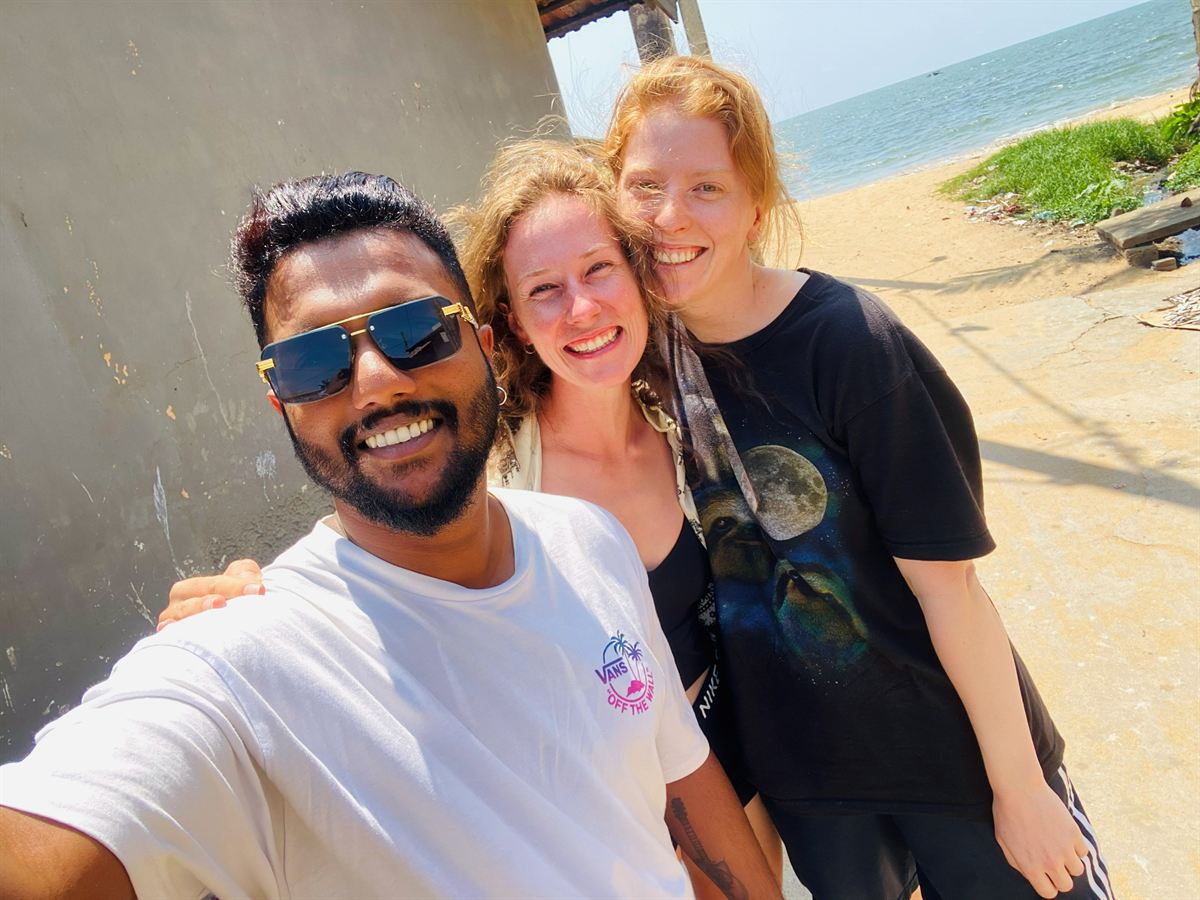
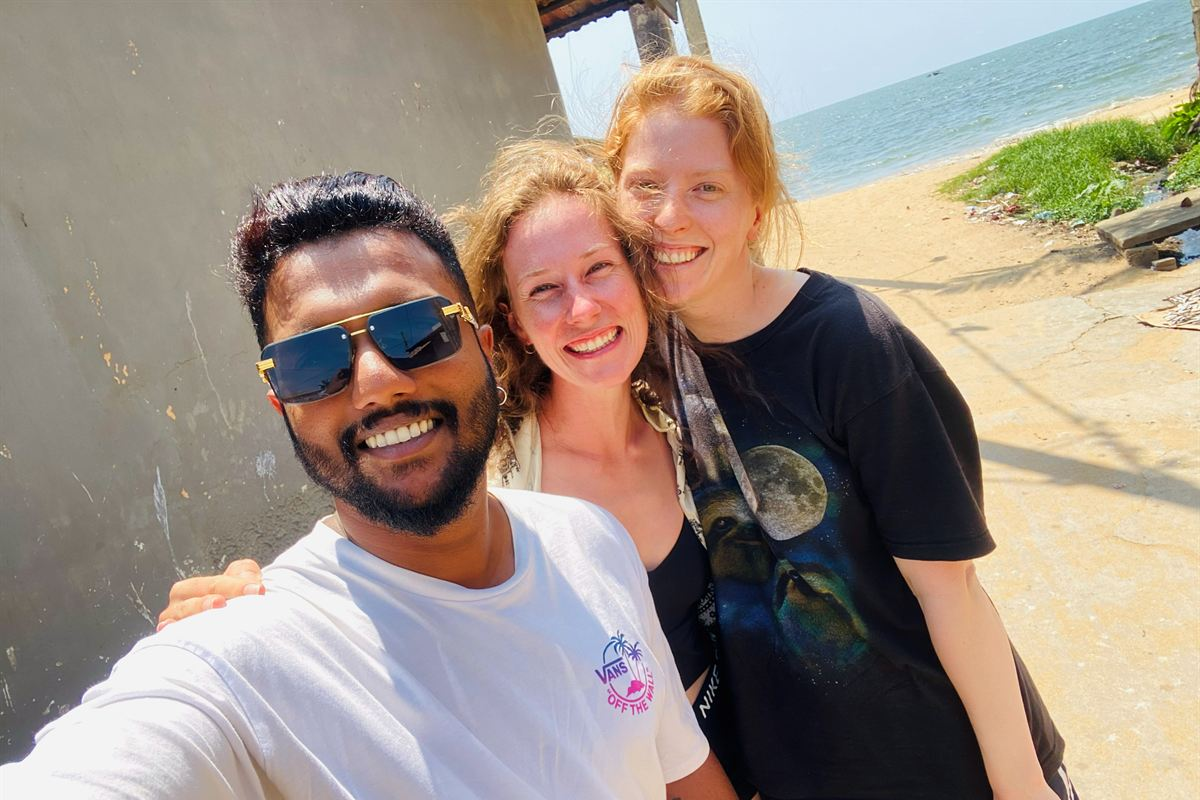
Add files via upload

diff --git a/index.html b/index.html
@@ -250,6 +250,9 @@ html:not(.revisar) .voice-g:has(> .video.pend){grid-template-columns:minmax(0,1f
 .car-ph .slot{padding:10px;font-size:.82rem}
 html:not(.revisar) .car-ph:has(> .slot){grid-template-columns:minmax(0,1fr)}
 html:not(.revisar) .car-ph:has(> .slot) .ph{aspect-ratio:4/3}
+.car-ph:has(> :nth-child(3)){grid-template-columns:minmax(0,1.125fr) minmax(0,1fr)}
+.car-ph:has(> :nth-child(3)) > :first-child{grid-row:1 / 3;aspect-ratio:auto;height:100%}
+.car-ph:has(> :nth-child(3)) > :not(:first-child){aspect-ratio:4/3}
 .specs{list-style:none;padding:0;margin:0}
 .car-note{font-family:var(--f-text);font-style:italic;font-size:1.1rem;color:var(--muted)}
 .specs li{display:flex;justify-content:space-between;gap:16px;padding-block:12px;border-bottom:1px solid var(--line)}
@@ -293,8 +296,6 @@ html:not(.revisar) .car-ph:has(> .slot) .ph{aspect-ratio:4/3}
 .legs .d{font-size:.78rem;font-weight:700;letter-spacing:.1em;text-transform:uppercase;color:var(--gold-text);padding-top:3px}
 .legs b{font-weight:600}
 .legs span.n{display:block;font-size:.92rem;color:var(--muted)}
-.trip-ph{display:grid;grid-template-columns:1fr 1fr;gap:12px}
-.trip-ph .ph{aspect-ratio:4/5}
 @media (max-width:960px){ .trip-g{grid-template-columns:1fr} }
 /* route chooser: one button per route; only the chosen route shows on the map and in the list */
 .rtabs{display:flex;flex-wrap:wrap;gap:8px;margin-bottom:clamp(20px,3vw,32px)}
@@ -304,7 +305,17 @@ html:not(.revisar) .car-ph:has(> .slot) .ph{aspect-ratio:4/3}
 .trip.off,.mapbox .route.off{display:none}
 .trip-k{font-size:.78rem;font-weight:700;letter-spacing:.14em;text-transform:uppercase;color:var(--gold-text);margin-bottom:6px}
 .trip-note{color:var(--muted);font-size:.95rem}
-.trip:not([data-route="cg"]) .legs li{grid-template-columns:30px 1fr}
+.trip .legs li{grid-template-columns:30px 1fr}
+.trip-col{display:grid;gap:22px;min-width:0}
+.places{margin-top:clamp(36px,5vw,56px);display:grid;grid-template-columns:minmax(0,1fr);gap:14px;min-width:0}
+.places h3{font-size:1.5rem}
+.places-g{display:grid;grid-auto-flow:column;grid-auto-columns:minmax(190px,1fr);gap:12px;overflow-x:auto;scroll-snap-type:x mandatory;padding-bottom:8px;-webkit-overflow-scrolling:touch}
+.places-g figure{margin:0;scroll-snap-align:start;min-width:0}
+.places-g img{width:100%;aspect-ratio:4/5;object-fit:cover;border-radius:4px;display:block}
+.places-g figcaption{margin-top:8px;font-size:.92rem;font-weight:600}
+.places-g figcaption small{display:block;font-weight:400;font-size:.8rem;color:var(--muted)}
+.places-sub{color:var(--muted);font-size:.95rem;margin-top:4px}
+@media (max-width:700px){ .places-g{grid-auto-columns:64%} }
 
 /* about */
 .who-g{display:grid;grid-template-columns:1.2fr .8fr;gap:clamp(28px,5vw,64px);align-items:center}
@@ -413,7 +424,7 @@ html.movil .crew-g{grid-template-columns:repeat(2,minmax(0,1fr))}
       </div>
     </div>
     <figure class="ph">
-      <img data-slot="hero" src="img/portada-darshi.jpg" data-alt-es="Darshi sonriendo a cámara" data-alt-en="Darshi smiling at the camera" alt="Darshi sonriendo a cámara" width="960" height="1200" fetchpriority="high">
+      <img data-slot="hero" src="img/darshi-retrato.jpg" data-alt-es="Darshi sentado en unos escalones, sonriendo" data-alt-en="Darshi sitting on some steps, smiling" alt="Darshi sentado en unos escalones, sonriendo" width="933" height="1400" fetchpriority="high">
     </figure>
   </div>
 </section>
@@ -490,19 +501,19 @@ html.movil .crew-g{grid-template-columns:repeat(2,minmax(0,1fr))}
     </div>
     <div class="travel">
       <article class="tr">
-        <figure class="ph"><img data-slot="card_route" src="img/buduruwagala.jpg" data-alt-es="Las figuras de Buda talladas en la roca de Buduruwagala" data-alt-en="The Buddha figures carved into the rock at Buduruwagala" alt="Las figuras de Buda talladas en la roca de Buduruwagala" loading="lazy"></figure>
+        <figure class="ph"><img data-slot="card_route" src="img/buduruwagala.jpg" data-alt-es="Darshi y Gerard mirando la figura de Buda tallada en la roca de Buduruwagala" data-alt-en="Darshi and Gerard looking at the Buddha figure carved into the rock at Buduruwagala" alt="Darshi y Gerard mirando la figura de Buda tallada en la roca de Buduruwagala" loading="lazy"></figure>
         <h3><span class="t-es">La ruta, la preparamos juntos</span><span class="t-en">We plan the route together</span></h3>
         <p class="t-es">Me cuentas tus fechas, tu idea de ruta o los lugares que te interesan, y la ajustamos juntos. En Sri Lanka las distancias engañan: en la montaña, pocos kilómetros pueden ser horas de carretera. Por eso preparamos el recorrido con tiempos reales y vemos dónde te apetece parar por el camino.</p>
         <p class="t-en">Tell me your dates, your route idea or the places you're interested in, and we'll fine-tune it together. In Sri Lanka distances are deceiving: in the hills, a few kilometres can mean hours on the road. So we plan the route with real driving times and see where you'd like to stop along the way.</p>
       </article>
       <article class="tr">
-        <figure class="ph"><img data-slot="card_tips" src="img/recomendaciones.jpg" style="object-position:50% 62%" data-alt-es="Darshi señalando una cascada a un viajero" data-alt-en="Darshi pointing out a waterfall to a traveller" alt="Darshi señalando una cascada a un viajero" loading="lazy"></figure>
+        <figure class="ph"><img data-slot="card_tips" src="img/comida-tipica.jpg" data-alt-es="Arroz con curry servido en hoja de plátano" data-alt-en="Rice and curry served on a banana leaf" alt="Arroz con curry servido en hoja de plátano" loading="lazy"></figure>
         <h3><span class="t-es">Recomendaciones por el camino</span><span class="t-en">Recommendations along the way</span></h3>
         <p class="t-es">Te propongo sitios para visitar y comer, también menos turísticos, y te ayudo a organizar safaris y a conseguir entradas y billetes. Las entradas y actividades se pagan aparte.</p>
         <p class="t-en">I suggest places to visit and eat, including less touristy ones, and help you arrange safaris and get entrance and train tickets. Tickets and activities are paid separately.</p>
       </article>
       <article class="tr">
-        <div class="slot" data-slot="card_train"><span class="t-es">Foto pendiente</span><span class="t-en">Photo to come</span><small><span class="t-es">Las vistas desde el tren a Ella, o vosotros asomados a la ventanilla</span><span class="t-en">The views from the Ella train, or travellers at the window</span></small></div>
+        <figure class="ph"><img data-slot="card_train" src="img/tren-nine-arches.jpg" data-alt-es="El tren a Ella cruzando el puente Nine Arches" data-alt-en="The train to Ella crossing the Nine Arches Bridge" alt="El tren a Ella cruzando el puente Nine Arches" loading="lazy"></figure>
         <h3><span class="t-es">El tren a Ella, sin cargar con las maletas</span><span class="t-en">The train to Ella, without carrying your luggage</span></h3>
         <p class="t-es">El tramo de montaña hasta Ella es uno de los trayectos en tren más bonitos del mundo: plantaciones de té, cascadas y valles desde la ventanilla. Te ayudo a conseguir los billetes, que en temporada alta se agotan pronto. Mientras tú disfrutas del paisaje, yo llevo las maletas en el coche y te recojo en la estación. Los billetes se pagan aparte.</p>
         <p class="t-en">The mountain stretch to Ella is one of the most beautiful train rides in the world: tea plantations, waterfalls and valleys from the window. I help you get tickets, which sell out early in high season. While you enjoy the views, I take your luggage in the car and pick you up at the station. Train tickets are paid separately.</p>
@@ -558,8 +569,9 @@ html.movil .crew-g{grid-template-columns:repeat(2,minmax(0,1fr))}
     <!-- The car: only what stays true if he changes car (no model). -->
     <div class="car" id="coche">
       <div class="car-ph">
-        <figure class="ph"><img data-slot="car_outside" src="img/coche-darshi.jpg" style="object-position:32% 50%" data-alt-es="Darshi apoyado en su coche negro, con campos y montañas detrás" data-alt-en="Darshi leaning on his black car, with fields and hills behind" alt="Darshi apoyado en su coche negro, con campos y montañas detrás" loading="lazy"></figure>
+        <figure class="ph"><img data-slot="car_outside" src="img/coche-arrozal.jpg" data-alt-es="Darshi apoyado en su coche negro, junto a unos arrozales" data-alt-en="Darshi leaning on his black car, next to some rice fields" alt="Darshi apoyado en su coche negro, junto a unos arrozales" loading="lazy"></figure>
         <figure class="ph"><img data-slot="car_inside" src="img/coche-interior.jpg" data-alt-es="El interior del coche visto desde los asientos de atrás, con Darshi al volante" data-alt-en="Inside the car from the back seats, with Darshi driving" alt="El interior del coche visto desde los asientos de atrás, con Darshi al volante" loading="lazy"></figure>
+        <figure class="ph"><img data-slot="car_3" src="img/coche-detras.jpg" data-alt-es="La parte de atrás del coche, con la frase Come as a guest, leave as a friend" data-alt-en="The back of the car, with the words Come as a guest, leave as a friend" alt="La parte de atrás del coche, con la frase Come as a guest, leave as a friend" loading="lazy"></figure>
       </div>
       <div style="display:grid;gap:18px;min-width:0">
         <p class="eyebrow"><span class="t-es">El coche</span><span class="t-en">The car</span></p>
@@ -608,7 +620,7 @@ html.movil .crew-g{grid-template-columns:repeat(2,minmax(0,1fr))}
   </div>
 </section>
 
-<!-- 6. ROUTES: Darshi's routes (data/routes.json, drawn on the map by the script) and Claudia & Gerard's real trip (written below). A button switches between them. -->
+<!-- 6. ROUTES: ideas for a route (data/routes.json), drawn on the map by the script. One button per route switches between them. The two photos below are shared by all routes. -->
 <section id="viaje-real" style="padding-top:0">
   <div class="wrap">
     <div class="sec-head">
@@ -623,49 +635,17 @@ html.movil .crew-g{grid-template-columns:repeat(2,minmax(0,1fr))}
           <img src="img/mapa-relieve.jpg" data-alt-es="Mapa de relieve de Sri Lanka" data-alt-en="Relief map of Sri Lanka" alt="Mapa de relieve de Sri Lanka" width="960" height="1470" loading="lazy">
           <!-- equirectangular: x=(lon-79.2)/3.1*1200, y=(10.2-lat)/4.7*1838 -->
           <svg id="route-map" viewBox="0 0 1200 1838" role="img" aria-label="Mapa de la ruta">
-            <g class="route" data-route="cg">
-            <polyline points="265,1181 604,877 556,1138 613,1263 715,1300 654,1457 852,1498 487,1663" fill="none" stroke="#16201A" stroke-width="16" stroke-linejoin="round" stroke-linecap="round" opacity=".55"/>
-            <polyline points="265,1181 604,877 556,1138 613,1263 715,1300 654,1457 852,1498 487,1663" fill="none" stroke="#E2B348" stroke-width="8" stroke-linejoin="round" stroke-linecap="round"/>
-            <g fill="#E2B348" stroke="#16201A" stroke-width="5">
-              <circle cx="265" cy="1181" r="16"/><circle cx="604" cy="877" r="16"/><circle cx="556" cy="1138" r="16"/>
-              <circle cx="613" cy="1263" r="16"/><circle cx="715" cy="1300" r="16"/><circle cx="654" cy="1457" r="16"/><circle cx="852" cy="1498" r="16"/>
-              <circle cx="487" cy="1663" r="16"/>
-            </g>
-            <g class="lbl">
-              <text x="240" y="1172" text-anchor="end"><tspan class="t-es">Aeropuerto</tspan><tspan class="t-en">Airport</tspan></text>
-              <text x="632" y="873">Sigiriya</text>
-              <text x="532" y="1135" text-anchor="end">Kandy</text>
-              <text x="590" y="1275" text-anchor="end">Nuwara Eliya</text>
-              <text x="740" y="1300">Ella</text>
-              <text x="630" y="1470" text-anchor="end">Udawalawe</text>
-              <text x="878" y="1512">Yala</text>
-              <text x="487" y="1732" text-anchor="middle">Mirissa</text>
-            </g>
-            </g>
           </svg>
         </div>
         <p class="credit"><span class="t-es">Mapa base:</span><span class="t-en">Base map:</span> Uwe Dedering, <a href="https://commons.wikimedia.org/wiki/File:Sri_Lanka_relief_location_map.jpg" target="_blank" rel="noopener">Wikimedia Commons</a>, CC BY-SA 3.0</p>
       </div>
-      <div class="trip" data-route="cg">
-        <div class="trip-head">
-          <div><p class="trip-k"><span class="t-es">Un viaje real</span><span class="t-en">A real trip</span></p><h3>Claudia &amp; Gerard</h3><p>Barcelona · <span class="t-es">noviembre de 2026 · pareja</span><span class="t-en">November 2026 · couple</span></p></div>
-          <p class="days">9<small><span class="t-es">días con conductor</span><span class="t-en">days with a driver</span></small></p>
-        </div>
-        <ol class="legs">
-          <li><span class="d"><span class="t-es">Día 1</span><span class="t-en">Day 1</span></span><span><b>Sigiriya</b><span class="n"><span class="t-es">Desde el hotel junto al aeropuerto. 2 noches.</span><span class="t-en">From the hotel near the airport. 2 nights.</span> <span class="tag"><span class="t-es">Precisar Lion Rock 4:20</span><span class="t-en">Clarify Lion Rock 4:20</span></span></span></span></li>
-          <li><span class="d"><span class="t-es">Día 3</span><span class="t-en">Day 3</span></span><span><b>Kandy</b><span class="n"><span class="t-es">1 noche</span><span class="t-en">1 night</span></span></span></li>
-          <li><span class="d"><span class="t-es">Día 4</span><span class="t-en">Day 4</span></span><span><b>Nuwara Eliya</b><span class="n"><span class="t-es">1 noche</span><span class="t-en">1 night</span></span></span></li>
-          <li><span class="d"><span class="t-es">Día 5</span><span class="t-en">Day 5</span></span><span><b><span class="t-es">Tren de Nanu Oya a Ella</span><span class="t-en">Train from Nanu Oya to Ella</span></b><span class="n"><span class="t-es">Las maletas, en el coche. 2 noches.</span><span class="t-en">The luggage, in the car. 2 nights.</span></span></span></li>
-          <li><span class="d"><span class="t-es">Día 7</span><span class="t-en">Day 7</span></span><span><b>Udawalawe</b><span class="n"><span class="t-es">Safari de elefantes</span><span class="t-en">Safari to see elephants</span></span></span></li>
-          <li><span class="d"><span class="t-es">Día 8</span><span class="t-en">Day 8</span></span><span><b>Yala</b><span class="n"><span class="t-es">Safari en busca del leopardo</span><span class="t-en">Safari to look for leopards</span></span></span></li>
-          <li><span class="d"><span class="t-es">Día 9</span><span class="t-en">Day 9</span></span><span><b>Mirissa</b><span class="n"><span class="t-es">Fin del servicio con conductor</span><span class="t-en">End of the driver service</span></span></span></li>
-        </ol>
-        <div class="trip-ph">
-          <figure class="ph"><img data-slot="trip_1" src="img/barca-claudia.webp" data-alt-es="Claudia y Darshi en una barca en un lago" data-alt-en="Claudia and Darshi on a boat on a lake" alt="Claudia y Darshi en una barca en un lago" loading="lazy"><figcaption class="prov"><span class="t-es">Provisional · ideal: los tres, sin gafas</span><span class="t-en">Placeholder · ideal: the three of them</span></figcaption></figure>
-          <figure class="ph"><img data-slot="trip_2" src="img/viaje-elefante.jpg" data-alt-es="Darshi y Gerard mirando un elefante junto a la carretera" data-alt-en="Darshi and Gerard watching an elephant by the road" alt="Darshi y Gerard mirando un elefante junto a la carretera" loading="lazy"></figure>
-        </div>
-        <p class="pend"><span class="tag"><span class="t-es">Añadir vuestra frase del vídeo</span><span class="t-en">Add their line from the video</span></span></p>
+      <div class="trip-col">
+        <div id="trips"></div>
       </div>
+    </div>
+    <div class="places" hidden>
+      <div><h3><span class="t-es">Algunos lugares del camino</span><span class="t-en">Some places along the way</span></h3><p class="places-sub"><span class="t-es">Fotos reales, hechas por mis viajeros.</span><span class="t-en">Real photos, taken by my travellers.</span></p></div>
+      <div class="places-g" id="places-list"></div>
     </div>
 
   </div>
@@ -860,17 +840,16 @@ html.movil .crew-g{grid-template-columns:repeat(2,minmax(0,1fr))}
     document.querySelectorAll('#rtabs .rtab').forEach(function(b){ b.setAttribute('aria-selected', b.getAttribute('data-for') === id); });
   }
   function showRoutes(routes){
-    var map = document.getElementById('route-map'), real = document.querySelector('#viaje-real .trip[data-route="cg"]'), tabs = document.getElementById('rtabs');
-    if (!routes.length) return; // only Claudia & Gerard's trip, as before
+    var map = document.getElementById('route-map'), list = document.getElementById('trips'), tabs = document.getElementById('rtabs');
+    if (!routes.length) return;
     var buttons = '';
     routes.forEach(function(r, i){
       var id = 'r' + i, who = (r.who || '').trim();
       map.appendChild(drawRoute(id, stopsOf(r)));
-      real.insertAdjacentHTML('beforebegin', tripHtml(id, r, i + 1));
+      list.insertAdjacentHTML('beforeend', tripHtml(id, r, i + 1));
       buttons += '<button type="button" class="rtab" role="tab" data-for="' + id + '">' + (who ? esc(who) : pair(r.name_es || 'Ruta ' + (i + 1), r.name_en || r.name_es || 'Route ' + (i + 1))) + '</button>';
     });
-    buttons += '<button type="button" class="rtab" role="tab" data-for="cg">Claudia &amp; Gerard</button>';
-    tabs.innerHTML = buttons; tabs.hidden = false;
+    tabs.innerHTML = buttons; tabs.hidden = routes.length < 2;
     tabs.addEventListener('click', function(e){ var b = e.target.closest('.rtab'); if (b) chooseRoute(b.getAttribute('data-for')); });
     chooseRoute('r0');
   }
@@ -894,7 +873,7 @@ html.movil .crew-g{grid-template-columns:repeat(2,minmax(0,1fr))}
     });
   }
 
-  var rendered = Promise.all([load('reviews'), load('travellers'), load('routes'), load('photos')]).then(function(d){
+  var rendered = Promise.all([load('reviews'), load('travellers'), load('routes'), load('photos'), load('places')]).then(function(d){
     var reviews = d[0], travellers = d[1], routes = d[2];
     showPhotos(d[3]);
     var top = reviews.filter(function(r){ return r.featured; }), rest = reviews.filter(function(r){ return !r.featured; });
@@ -911,6 +890,13 @@ html.movil .crew-g{grid-template-columns:repeat(2,minmax(0,1fr))}
     crew.parentNode.hidden = !travellers.length;
 
     showRoutes(routes);
+
+    var places = d[4] || [], pl = document.getElementById('places-list');
+    pl.innerHTML = places.filter(function(p){ return p.photo; }).map(function(p){
+      var es = p.name_es || p.name_en || '', en = p.name_en || es;
+      return '<figure><img src="' + esc(p.photo) + '" data-alt-es="' + esc(es) + '" data-alt-en="' + esc(en) + '" alt="' + esc(es) + '" loading="lazy"><figcaption>' + pair(es, en) + (p.by ? '<small>' + pair('Foto: ' + esc(p.by), 'Photo: ' + esc(p.by)) + '</small>' : '') + '</figcaption></figure>';
+    }).join('');
+    pl.parentNode.hidden = !pl.children.length;
 
     setLang(document.body.classList.contains('en') ? 'en' : 'es');
     if (/[?&]imprimir\b/.test(location.search)) prepPrint();

diff --git a/CLAUDE.md b/CLAUDE.md
@@ -26,7 +26,7 @@ Darshi owns this repository and asks for changes from the Claude app on his phon
 6. **His English is only mentioned in the FAQ** ("My English is very basic..."), never in the hero or the car block.
 7. **No prices or amounts anywhere.** The quote, the deposit and the payment method are sent on WhatsApp, trip by trip.
 8. **Nothing that needs maintenance:** no embedded Instagram or Google feeds (link to them instead), no counters, no "years of experience", no dates that go out of date, no car model.
-9. **Nothing that looks generated or like a template:** no stock photos, no AI images, no icon sets, no emoji. Real photos only. The only icons are the WhatsApp, Instagram and Google logos on the links to those services.
+9. **Nothing that looks generated or like a template:** no stock photos, no AI images, no icon sets, no emoji. Real photos only. The one exception is the train card photo (`img/tren-nine-arches.jpg`, by llxvisuals on Unsplash, free licence): replace it with Darshi's own photo of the train when he has one. The only icons are the WhatsApp, Instagram and Google logos on the links to those services.
 
 ## Structure
 
@@ -40,12 +40,13 @@ One page, in this order (section ids in brackets): header with ES/EN switch and 
 
 ## Content Darshi edits from the panel
 
-The main photos, reviews, photos with travellers and routes are **not written in `index.html`**. They live in four data files that Darshi edits himself, for free, from the Pages CMS panel (app.pagescms.org, configured in `.pages.yml`):
+The main photos, reviews, photos with travellers, places and routes are **not written in `index.html`**. They live in five data files that Darshi edits himself, for free, from the Pages CMS panel (app.pagescms.org, configured in `.pages.yml`):
 
 - `data/reviews.json`: each review has `name`, `from_es`/`from_en`, `trip_es`/`trip_en`, `original_language`, `original` (literal text), `spanish`/`english` (translations), `photo` and `featured` (shown among the first ones; the first featured review is shown bigger).
 - `data/travellers.json`: `photo` and `description` (English).
-- `data/routes.json`: `name_es`/`name_en` (the button), `who`, `days`, `type_es`/`type_en` (a short note), `stops` (separated by "·"; "A / B" means either). A route with `who` is a real trip with those travellers; with an empty `who` it is "Ruta que te propongo / A route I suggest". The script draws every route on the map from the `PLACES` list (latitude/longitude) near the end of `index.html`: a stop missing from that list is shown in the list but not on the map, so add it there. One button per route switches the map; Claudia & Gerard's real trip, written in the HTML, is the last button.
-- `data/photos.json`: the main photos (top, About me, the three "How we'll travel" cards, the car, Claudia & Gerard's trip), each with `photo` and an English `description`. They match the `data-slot` attributes in `index.html`. A photo that differs from the one written in the HTML replaces it when the page loads.
+- `data/places.json`: the strip "Algunos lugares del camino / Some places along the way" under the routes. Each place has `photo`, `name_es` and `name_en` (the caption, also its alt text) and `by` (the traveller who took it, shown as "Foto: …"; empty if Darshi took it). The line under the title says they are real photos taken by his travellers. Only Darshi's or his travellers' own photos, never photos from the internet, and only names of places he confirms.
+- `data/routes.json`: `name_es`/`name_en` (the button), `who`, `days`, `type_es`/`type_en` (a short note), `stops` (separated by "·"; "A / B" means either). A route with `who` is a real trip with those travellers; with an empty `who` it is "Ruta que te propongo / A route I suggest". The script draws every route on the map from the `PLACES` list (latitude/longitude) near the end of `index.html`: a stop missing from that list is shown in the list but not on the map, so add it there. One button per route switches the map (no buttons when there is only one route). All routes follow the same pattern.
+- `data/photos.json`: the main photos (top, About me, the three "How we'll travel" cards, the car), each with `photo` and an English `description`. They match the `data-slot` attributes in `index.html`. A photo that differs from the one written in the HTML replaces it when the page loads.
 
 The script at the bottom of `index.html` reads these files and builds the markup (with the same classes as the rest of the page). To change any of this content, edit the JSON files, not the HTML. Keep the field names: the panel depends on them. If you add a field, add it to `.pages.yml` too.
 
@@ -70,7 +71,7 @@ When something is confirmed: write the real content in both languages, then remo
 
 ## Common tasks
 
-**Replace a photo.** The main photos can be changed by Darshi from the panel ("Main photos"). If he asks you instead: put the photo in `img/`, update both `data/photos.json` and the `src`/`data-alt-es`/`data-alt-en`/`alt` of the matching `data-slot` image in `index.html` (keep them the same), and remove its `.prov` caption if it is the final photo. Photos should be about 1,600 px on the long side at most and under about 400 KB (the "Optimize photos" GitHub Action shrinks bigger ones). The hero photo is also the image WhatsApp shows when the link is shared (`og:image`, an absolute URL): if it changes, update `og:image`, `og:image:width` and `og:image:height`. Don't delete old photos unless he asks.
+**Replace a photo.** The main photos can be changed by Darshi from the panel ("Main photos"). If he asks you instead: put the photo in `img/`, update both `data/photos.json` and the `src`/`data-alt-es`/`data-alt-en`/`alt` of the matching `data-slot` image in `index.html` (keep them the same), and remove its `.prov` caption if it is the final photo. Photos should be about 1,600 px on the long side at most and under about 400 KB (the "Optimize photos" GitHub Action shrinks bigger ones). The image WhatsApp shows when the link is shared is set apart, in `og:image` (an absolute URL, with `og:image:width` and `og:image:height`): it is the close-up `img/portada-darshi.jpg`, because a face reads better in a small preview than the full photo at the top. Don't delete old photos unless he asks.
 
 **Add a review, a photo with travellers or a route.** Darshi can do it himself from the panel. If he asks you, add an entry to the matching file in `data/`. Reviews: literal text in `original`, the translations in `spanish`/`english`, the type of trip only if the traveller said it, and a photo only with their permission. Only `featured` reviews are visible at first (keep about 4); the rest appear behind "Ver más opiniones". Routes are drawn on the map automatically from their stops (see above).
 
